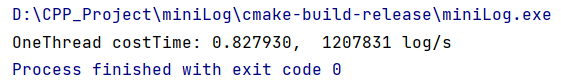
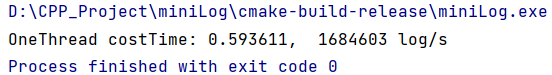
更新说明

Changed region(s): [[0.0, 0.0533, 1.0, 0.2933], [0.0, 0.4267, 0.8315, 0.64], [0.0, 0.7467, 0.6159, 0.96]]

diff --git a/README.md b/README.md
@@ -1,5 +1,5 @@
 ### 当前的性能
-在我的i5-7500 16G内存 4核 2.3GHz 的个人pc机上单线程写入一百万条日志平均在0.82s的时间  
+在我的i5-7500 16G内存 4核 2.3GHz 的个人pc机上单线程写入一百万条日志平均在0.59s的时间  
 ![img.png](img.png)
 ### 优化的记录
 | 序号 | 优化措施 | 描述 | 写入条数 | 写入大小 | 写入时间 |  
@@ -10,8 +10,9 @@
 | 4    | 信号量通知 | 刷入磁盘线程定时睡眠检查chunk的状态会出现“空醒”情况，修改为一个chunk写满后用信号量通知写入磁盘线程 | 一百万    | 103M    | 2.2s     |  
 | 5    | 修改拼接方式 | 将写日志时使用的字符流拼接方式修改为字符串拼接（+） | 一百万    | 103M    | 1.2s     |  
 | 6    | string改为char* | string + 拼接会产生拷贝且性能不够高效，故删除掉string | 一百万    | 103M    | 0.82s   |
-| 7    | 下一步优化 | 继续减少拷贝和系统调用的情况发生 | 一百万    | 103M    | 待验证   |
+| 7    | 减少时间调用次数 | 本日志系统的时间戳的最小单位为秒，不必每条日志都调用一次本地时间转换 | 一百万    | 103M    | 0.59s   |
+| 8    | 下一步优化 | 继续减少非必要的拷贝和系统调用的情况发生 | 一百万    | 103M    | 待验证   |
 
 ### 使用方法
-如果你的g++编译器支持C++ 11及以上版本，copy Log下的头文件和源代码后可以轻松加入到项目中并运行起来。  
+如果你的g++编译器支持C++ 11及以上版本，copy Log下的头文件和源代码后可以轻松加入到项目中并运行起来。但如果为内存敏感项目，请注意调整对应的chunk大小及数量，默认为1M * 8个组成的RingBuff。  
 具体的使用方法参见main.cpp
